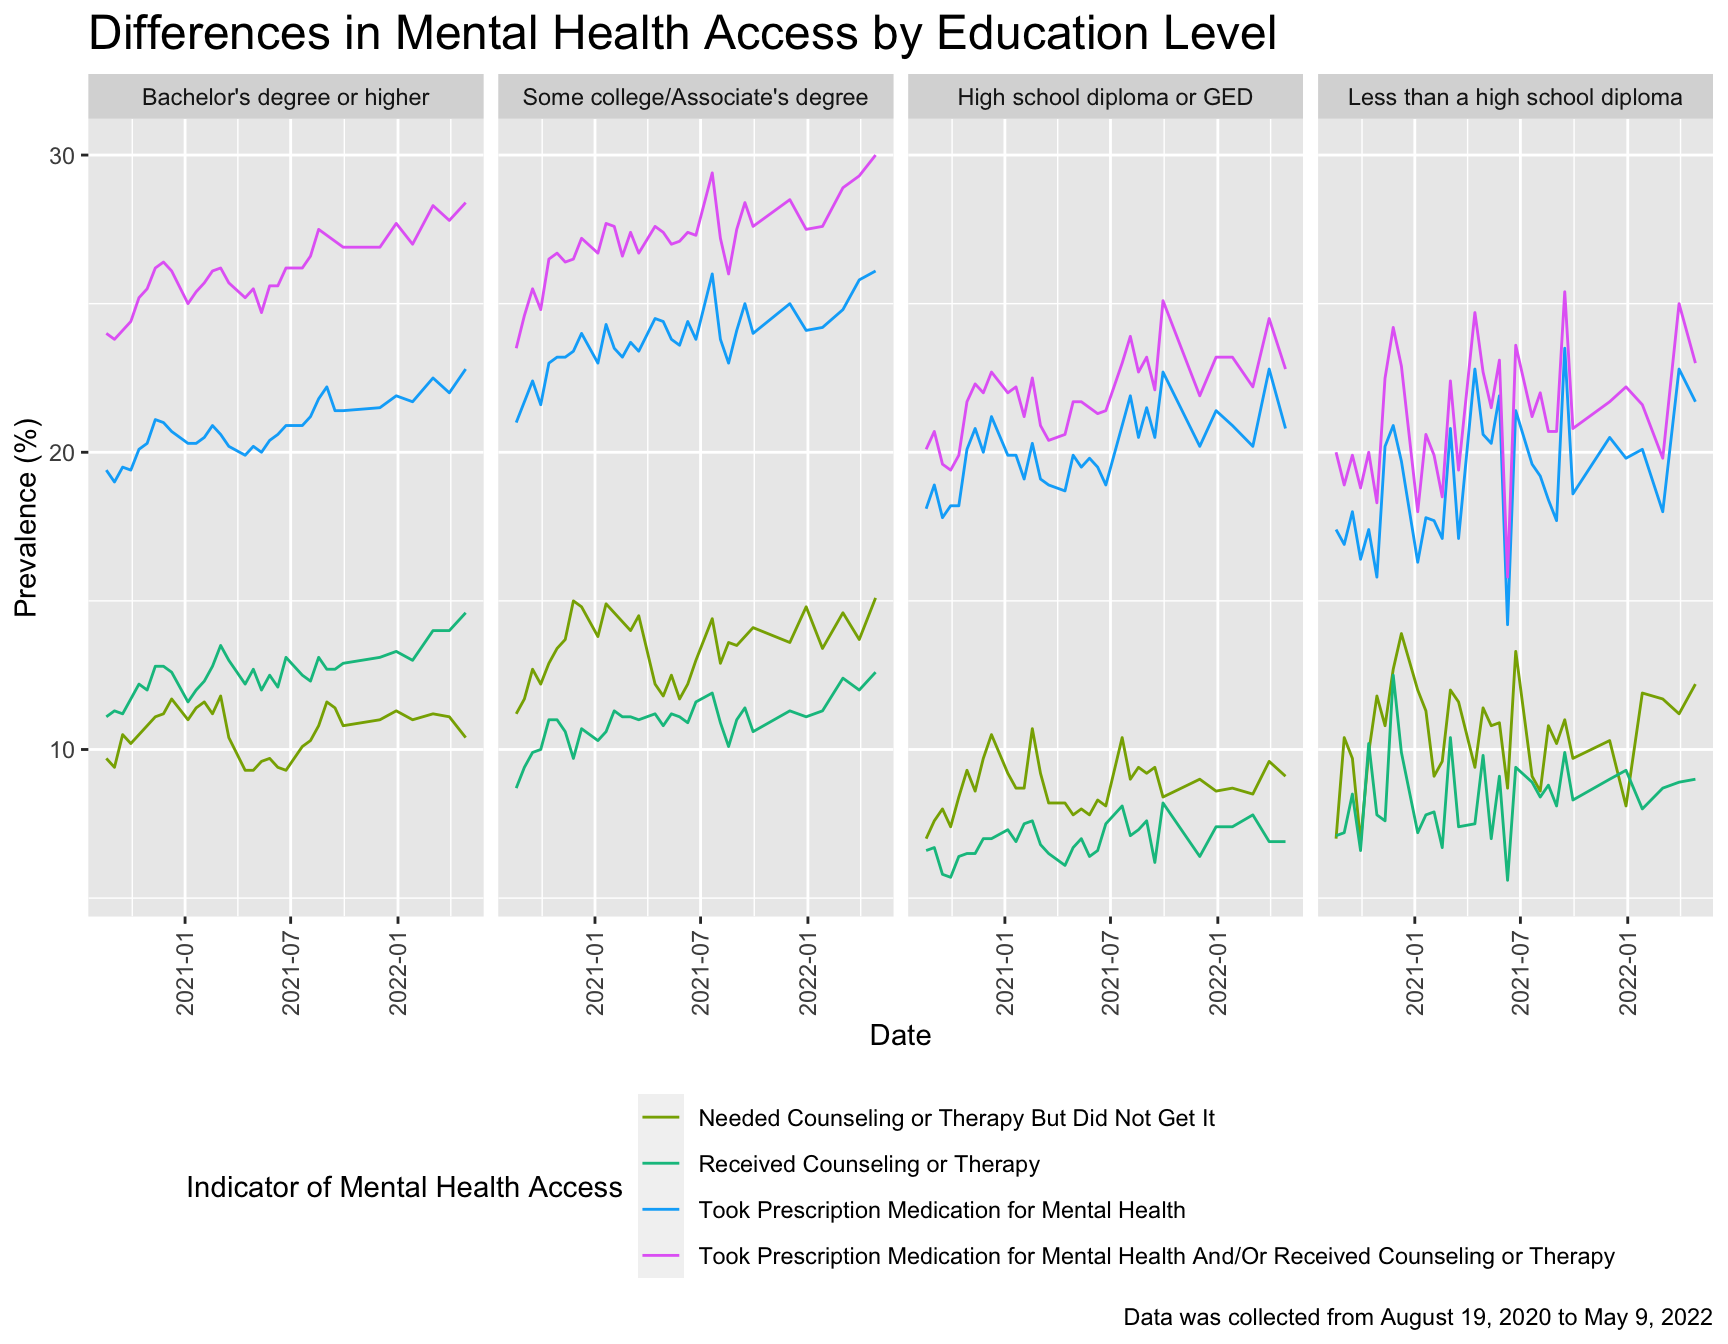
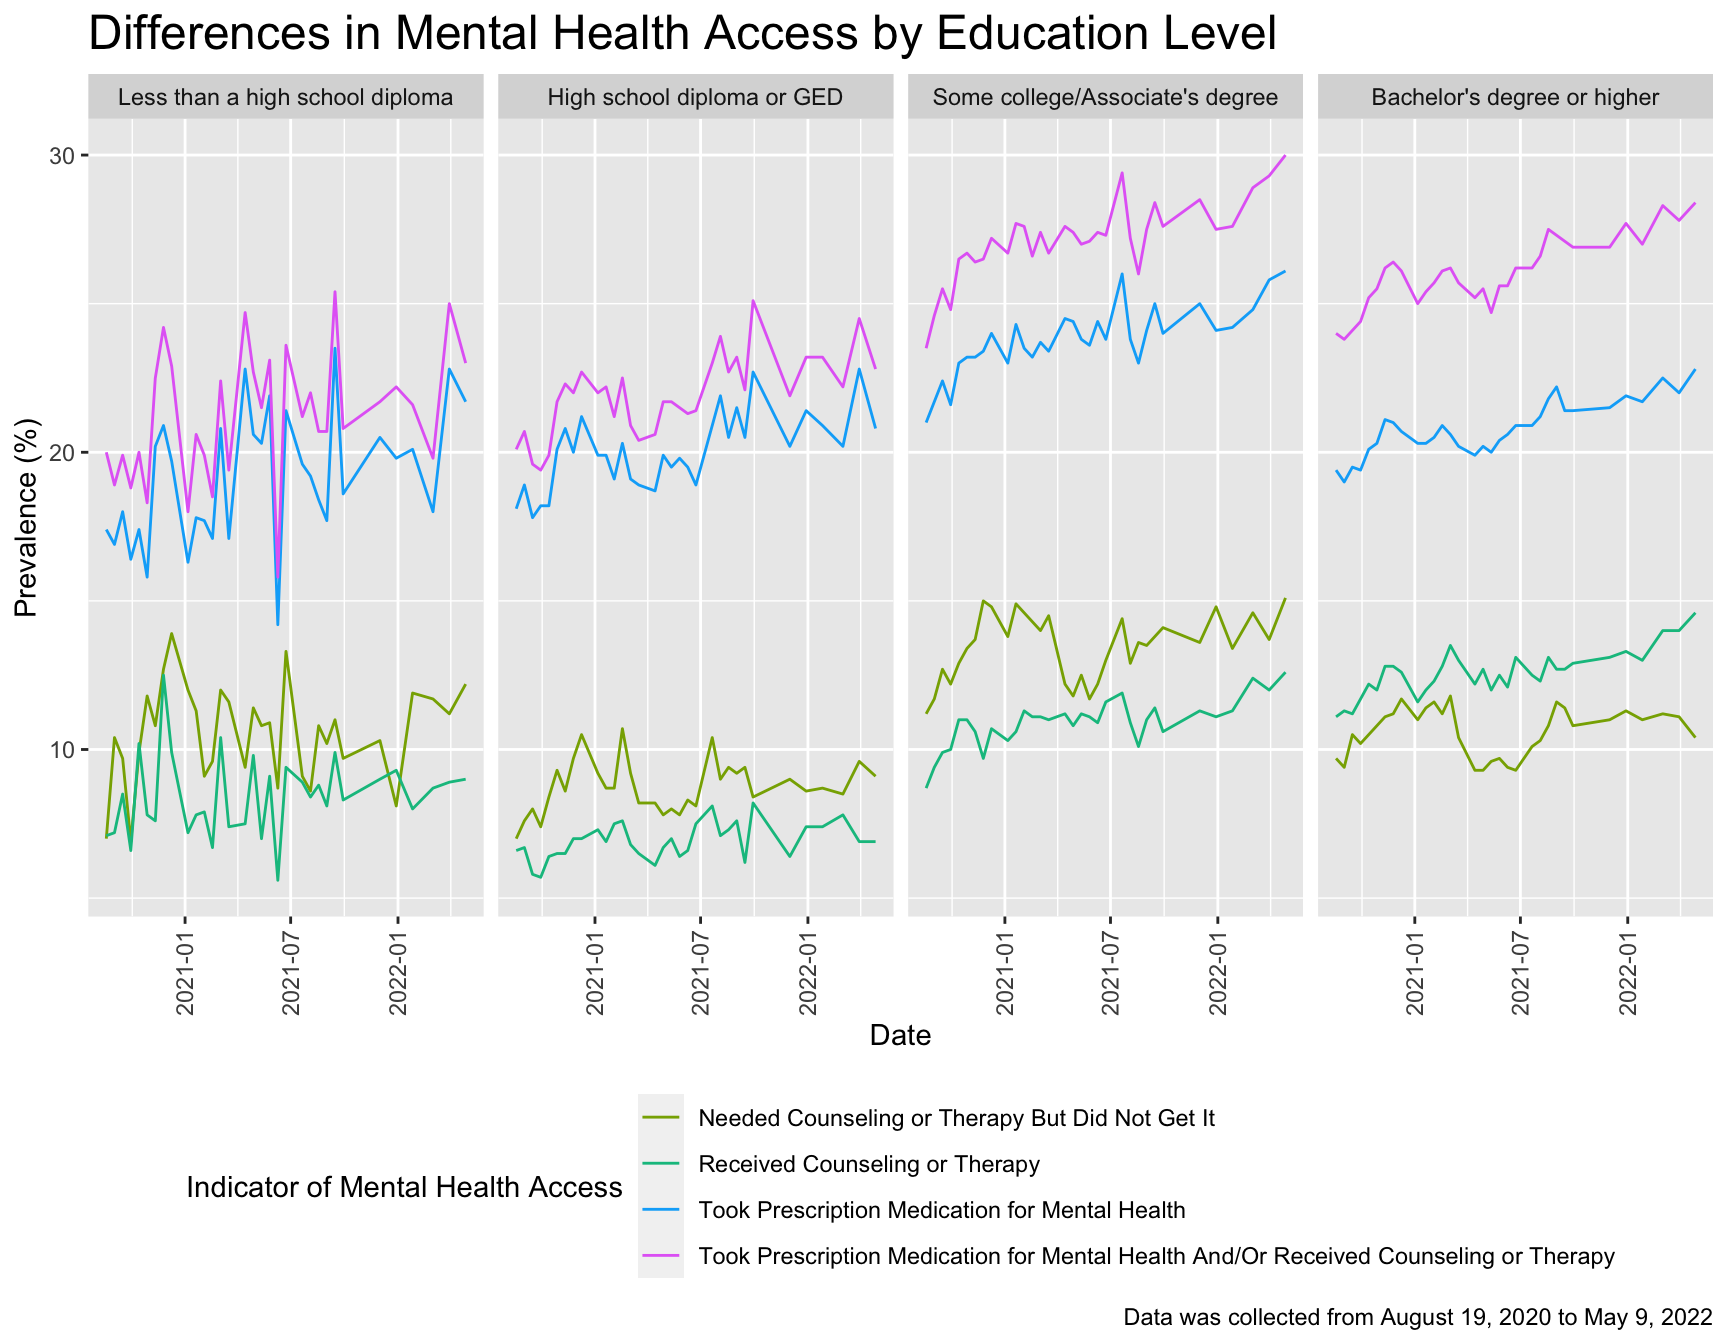
Change the values of the education levels from lowest to highest

diff --git a/eda_demographic.html b/eda_demographic.html
@@ -13,7 +13,7 @@
 
 <title>EDA by Demopgrahics</title>
 
-<script src="site_libs/header-attrs-2.24/header-attrs.js"></script>
+<script src="site_libs/header-attrs-2.25/header-attrs.js"></script>
 <script src="site_libs/jquery-3.6.0/jquery-3.6.0.min.js"></script>
 <meta name="viewport" content="width=device-width, initial-scale=1" />
 <link href="site_libs/bootstrap-3.3.5/css/united.min.css" rel="stylesheet" />
@@ -453,8 +453,7 @@ into two columns.</p>
 ed_plot= 
   tidydata |&gt;
   filter(group == &quot;Education&quot;, state == &quot;United States&quot;) |&gt; 
-   mutate(ed_name = forcats::fct_relevel(subgroup, c(&quot;Bachelor&#39;s degree or higher&quot;,
-                                                     &quot;Some college/Associate&#39;s degree&quot;, &quot;High school diploma or GED&quot;, &quot;Less than a high school diploma&quot;))) |&gt; 
+   mutate(ed_name = forcats::fct_relevel(subgroup, c(&quot;Less than a high school diploma&quot;, &quot;High school diploma or GED&quot;, &quot;Some college/Associate&#39;s degree&quot;, &quot;Bachelor&#39;s degree or higher&quot;))) |&gt; 
   group_by(start_dates, ed_name, indicator) |&gt; 
   ggplot(aes(x = start_dates, y = value, color = indicator)) +
   geom_line() +
